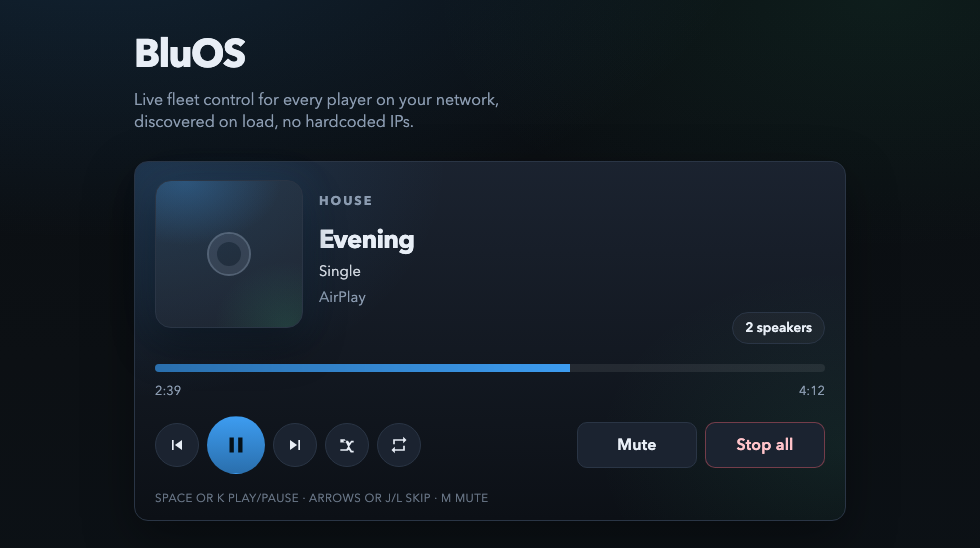
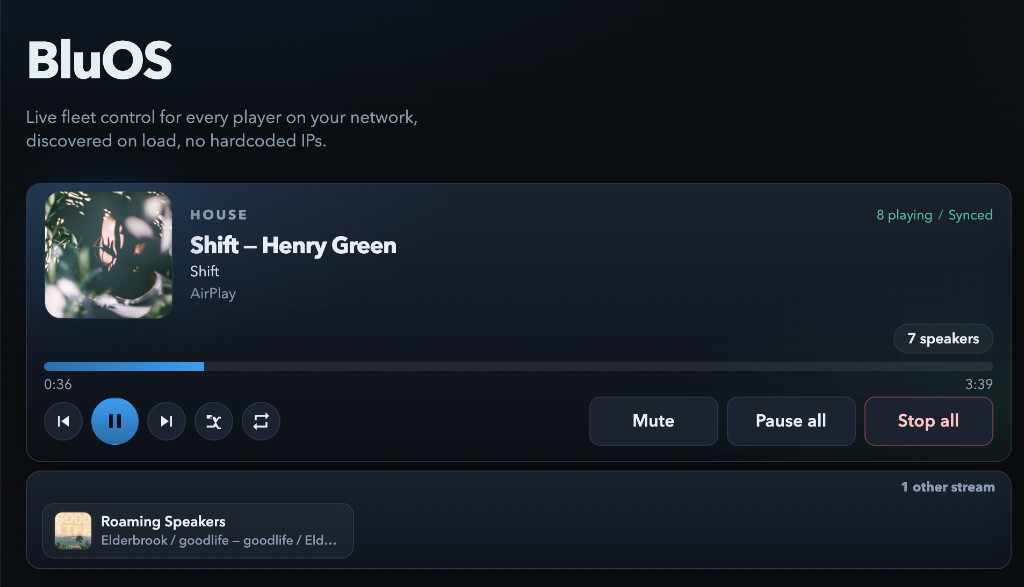
docs: show the house remote as it looks now

diff --git a/README.md b/README.md
@@ -9,11 +9,11 @@ LAN dashboard for every BluOS player on your network — Nodes, Pulse, NAD CI zo
 
 Related CLI: [bluos-controller](https://github.com/tbaur/bluos-controller). This dashboard is self-contained (no runtime dependency on the CLI).
 
-![House remote on one stream, with the speaker count and playback controls](docs/images/now-playing.png)
+![House remote on one stream, with another stream underneath](docs/images/now-playing.png)
 
 ## Features
 
-- **House remote** — one focused stream: artwork, title, album, source, live seek, skip, shuffle, repeat, mute, and stop all. The speaker count (or the room name, when one player has the stream) opens a dialog of every player on it, with role and volume. Lead is the BluOS group primary, Synced is a follower, and Direct is a player streaming that audio on its own. The list scrolls. Up to three other streams sit under Also playing; further streams open from the count. Choosing one keeps the house panel on those players while you control them. Play, skip, and seek command the sync lead, or that player when it is alone. Direct players are not commanded with the lead. Space or K play/pause, arrows or J/L skip, M mute. Skip keeps now-playing painted. When nothing is playing, the remote reads All quiet, and Mute and Stop all stay on the bottom row.
+- **House remote** — one focused stream: artwork, title, album, source, live seek, and transport. The speaker count opens every player on that stream. Other streams sit underneath; choosing one keeps the panel on those players. Mute, Pause all, and Stop all stay on the row.
 - **Fleet** — every player, live now-playing, A–Z or clustered by sync group (auto-switches to Sync when a group forms).
 - **Volume** — **Bluesound** (bluesound.com Nodes/Pulse) and **NAD CI S2** are separate sliders (different amp scales). Bluesound has 20 / 48 / 60 chips; CI S2 has 42 / 50 / 60 / 70. Other brands (NAD C658, …) use the player row only.
 - **Multi-room** — create groups, add/remove followers, group all free rooms under a lead, ungroup one set or all. Break-all also clears orphans whose primary left the network.
